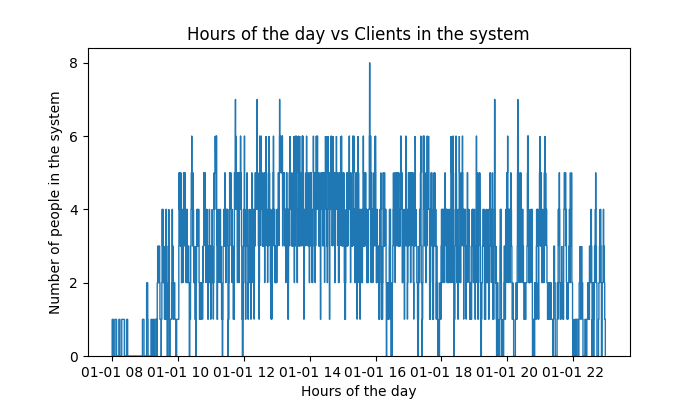
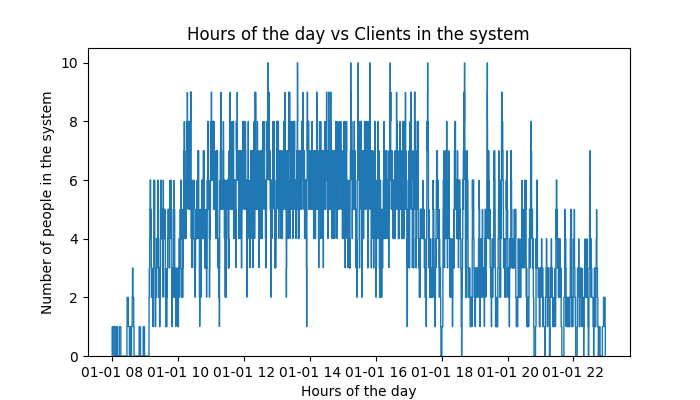
Revert "working regular queue"
This reverts commit e7b17b6f0f24e7702a3aa3a6fdb1a801cdfa3c53.

Changed region(s): [[0.15, 0.15, 0.87, 0.96], [0.06, 0.21, 0.12, 0.81], [0.09, 0.15, 0.12, 0.18]]

diff --git a/callcenter/CallCenter.py b/callcenter/CallCenter.py
@@ -37,7 +37,7 @@ logger = logging.getLogger('CallCenter')
 
 
 class CallCenter:
-    def __init__(self, mode: str = "PriorityQueue"):
+    def __init__(self, weather='sunny',  mode: str = "PriorityQueue", number_of_agents: int = 10,):
         self.events = []
         self.metrics_list = []
         self.day_metrics = None
@@ -366,5 +366,5 @@ class CallCenter:
 
 
 if __name__ == "__main__":
-    cc = CallCenter('Regular')
+    cc = CallCenter()
     cc.run()
